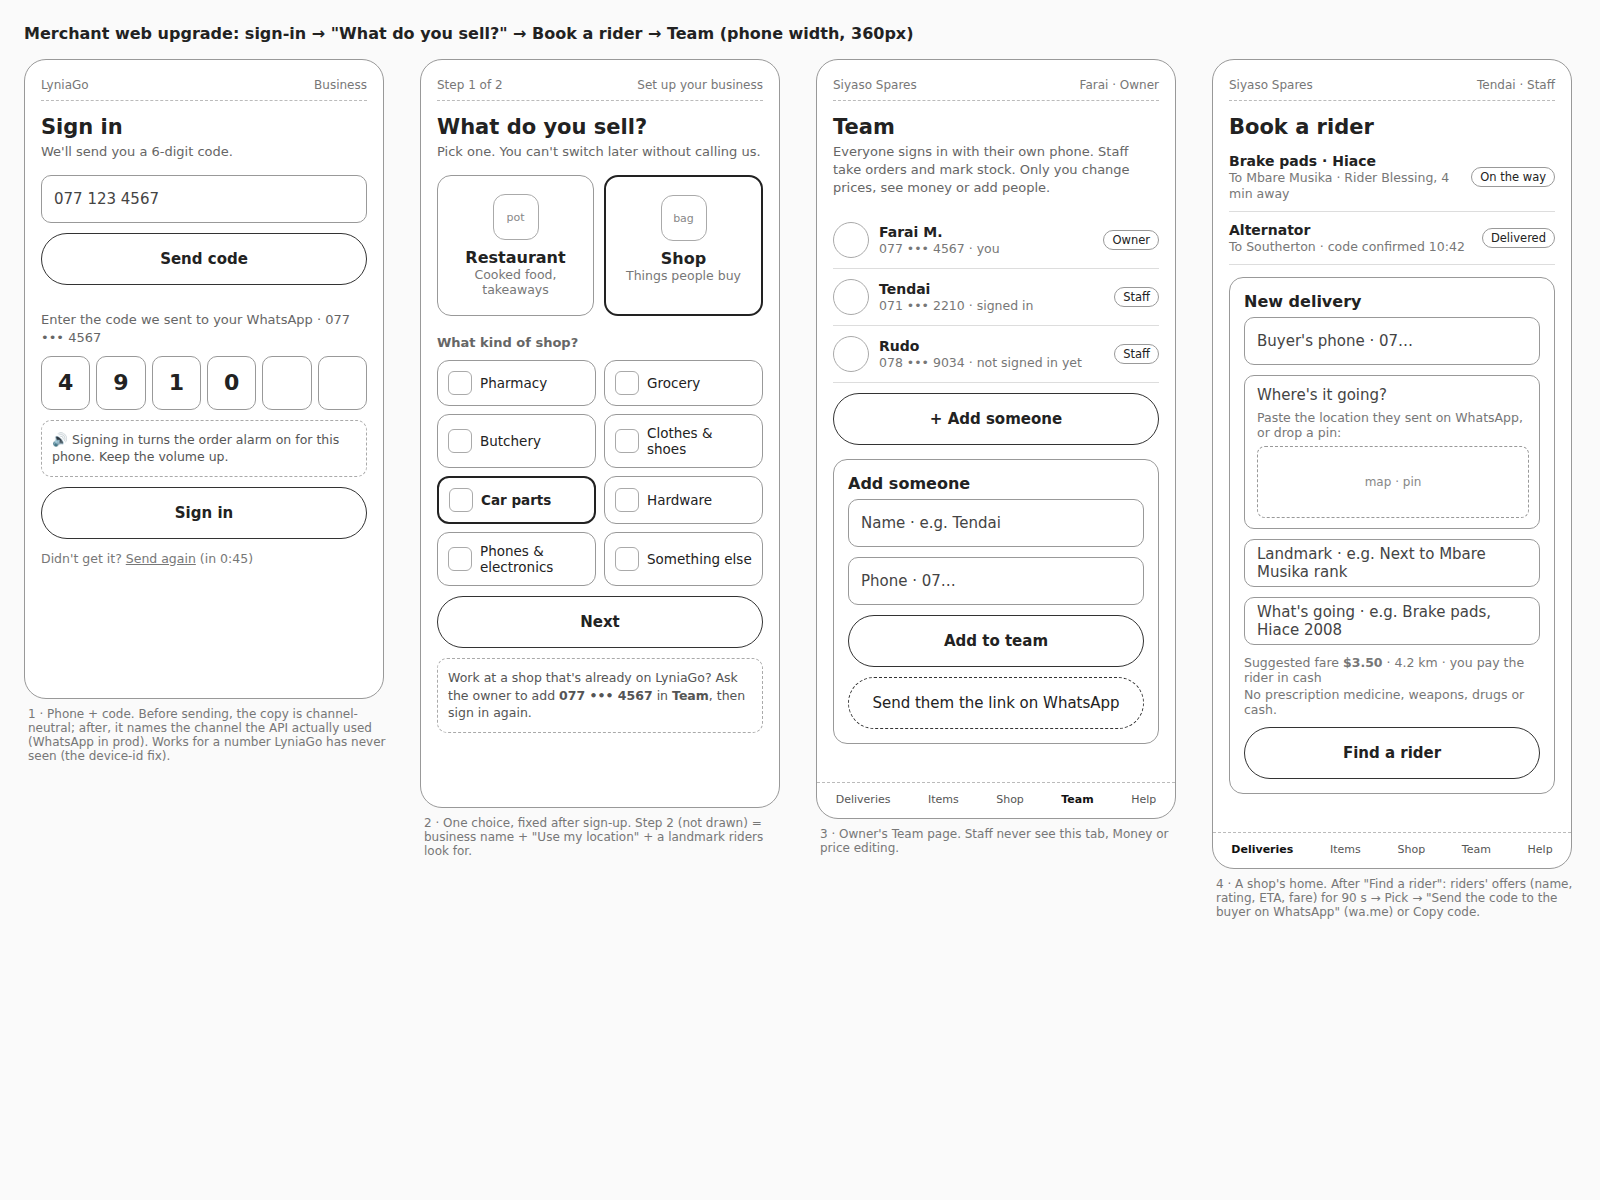
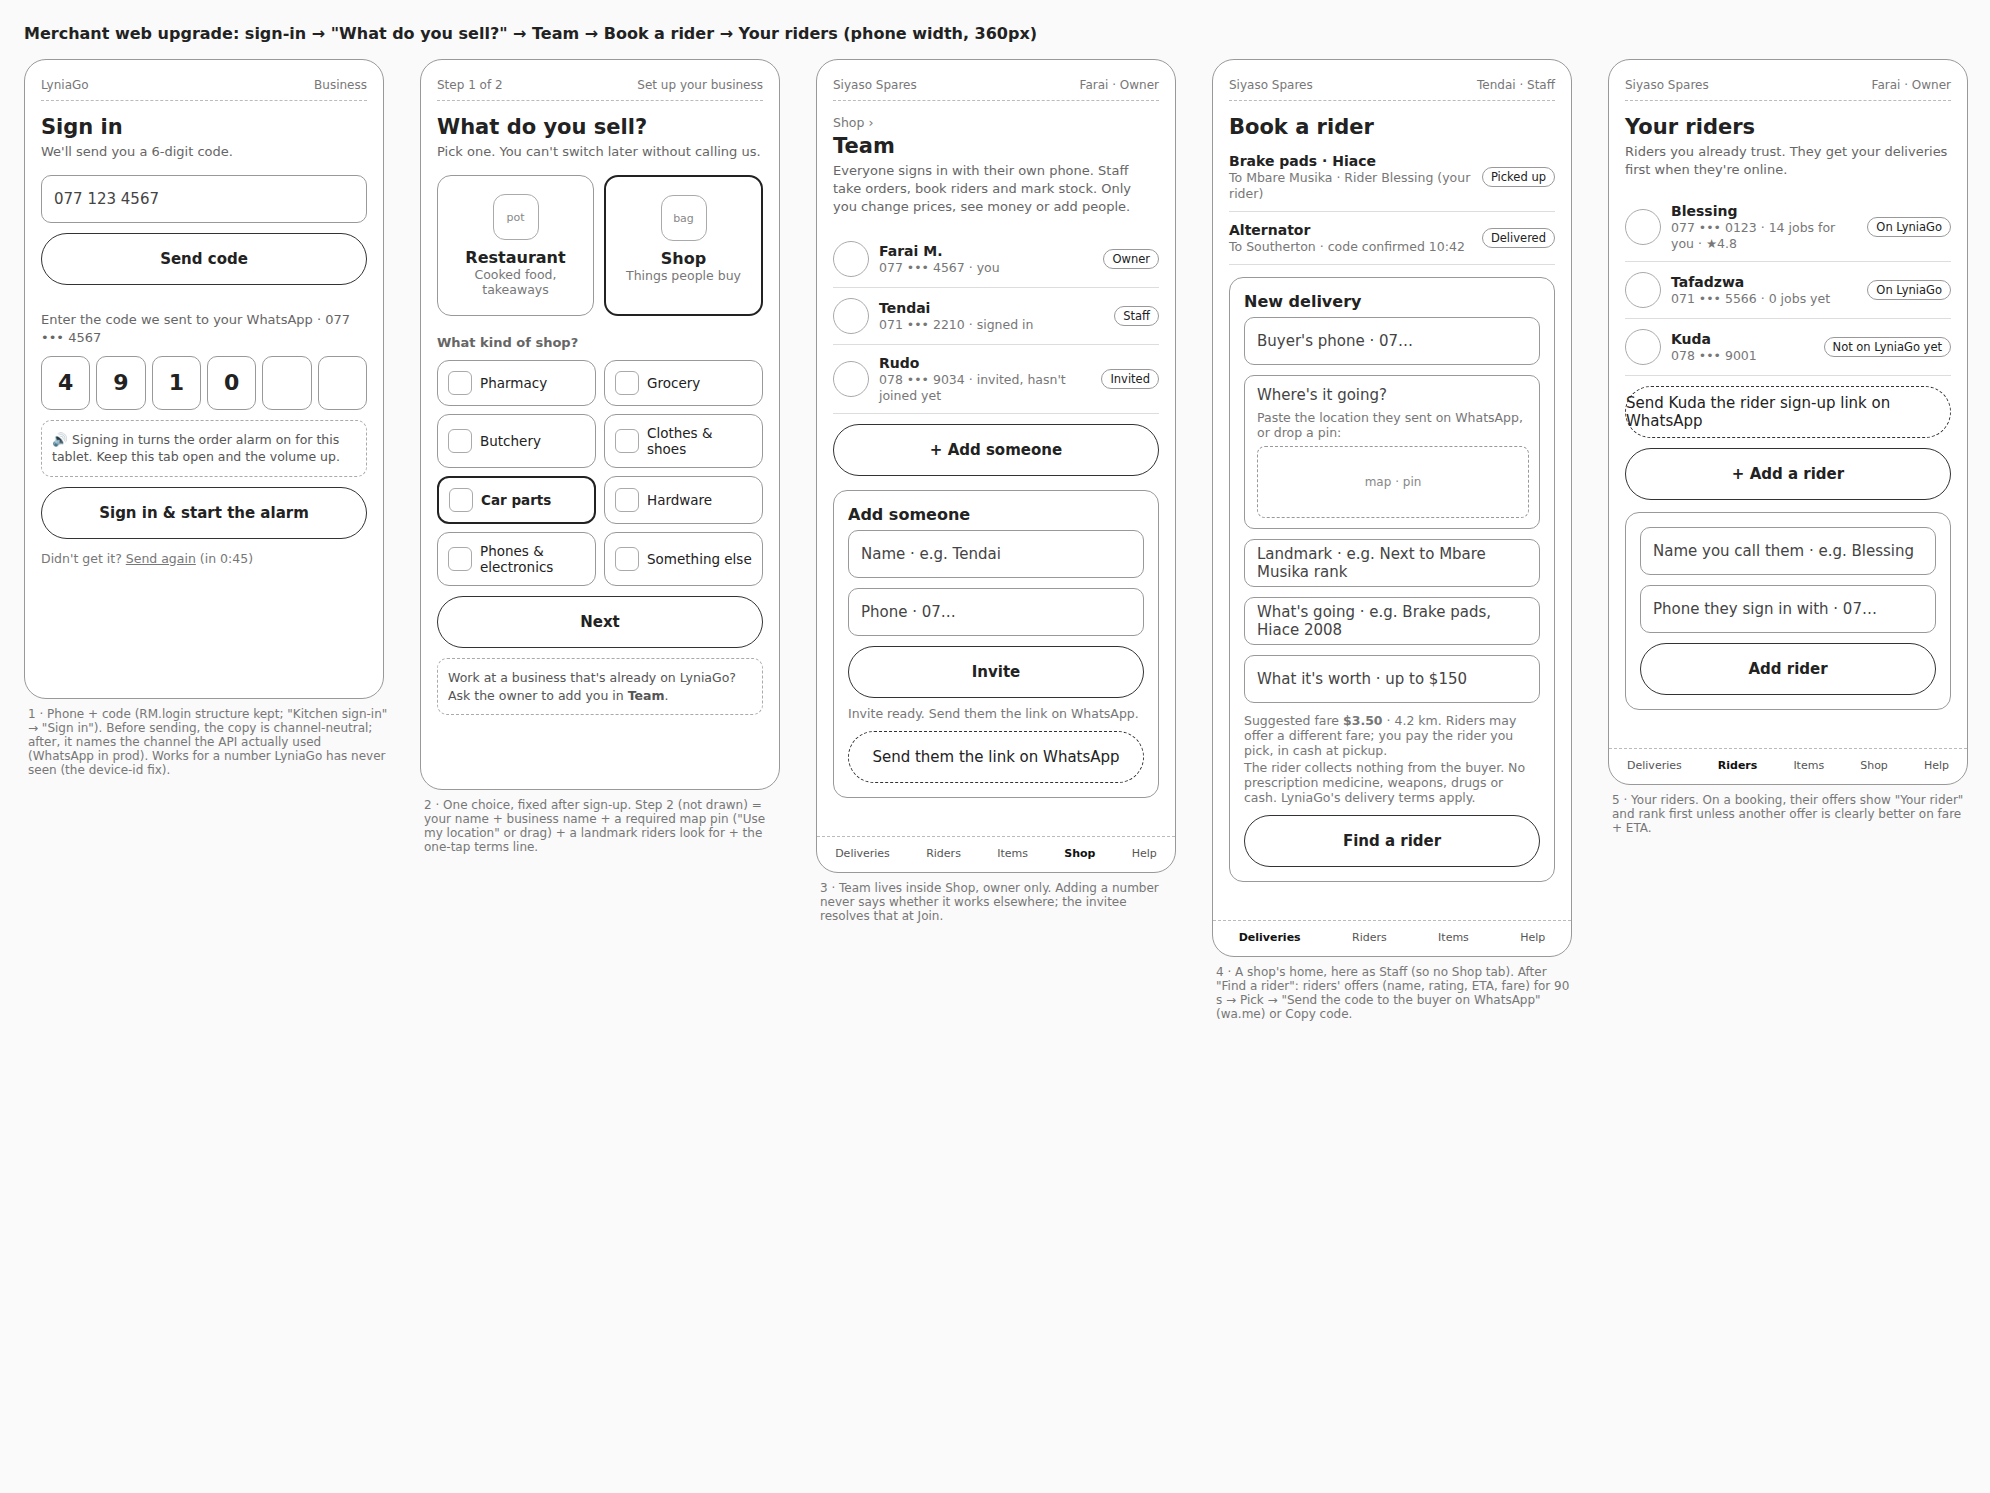
docs: merchant web 'Your riders' design, design approval + first CEO-review resolutions (#982)
Adds L3 "Your riders" (the owner's preferred-riders addition), marks the design doc approved, resolves the reviewer concerns that don't depend on Send internals, redraws the wireframe to match, and re-layers plan §5 to the design's five layers.

Claude-Session: https://claude.ai/code/session_0163HuRd6tsupB7Et2Dkb5fn

diff --git a/docs/designs/merchant-web-upgrade-wireframe.html b/docs/designs/merchant-web-upgrade-wireframe.html
@@ -43,7 +43,7 @@
 </style>
 </head>
 <body>
-<h1>Merchant web upgrade: sign-in → "What do you sell?" → Book a rider → Team (phone width, 360px)</h1>
+<h1>Merchant web upgrade: sign-in → "What do you sell?" → Team → Book a rider → Your riders (phone width, 360px)</h1>
 <div class="row">
 
   <!-- SCREEN 1: sign-in. One field. WhatsApp named up front, because that is where the code lands and
@@ -58,12 +58,12 @@
       <div style="height:26px"></div>
       <div class="sub" style="margin-bottom:8px">Enter the code we sent to your WhatsApp · 077 ••• 4567</div>
       <div class="boxes"><span>4</span><span>9</span><span>1</span><span>0</span><span></span><span></span></div>
-      <!-- Alarm unlock stays (D-05): the sign-in tap is the browser gesture that arms the order alarm. -->
-      <div class="note">🔊 Signing in turns the order alarm on for this phone. Keep the volume up.</div>
-      <div class="btn">Sign in</div>
+      <!-- Drawn in RM.login and kept: the sign-in tap arms the restaurant order alarm (harmless for shops). -->
+      <div class="note">🔊 Signing in turns the order alarm on for this tablet. Keep this tab open and the volume up.</div>
+      <div class="btn">Sign in &amp; start the alarm</div>
       <div class="muted" style="margin-top:12px">Didn't get it? <u>Send again</u> (in 0:45)</div>
     </div>
-    <div class="cap">1 · Phone + code. Before sending, the copy is channel-neutral; after, it names the channel the API actually used (WhatsApp in prod). Works for a number LyniaGo has never seen (the device-id fix).</div>
+    <div class="cap">1 · Phone + code (RM.login structure kept; "Kitchen sign-in" → "Sign in"). Before sending, the copy is channel-neutral; after, it names the channel the API actually used (WhatsApp in prod). Works for a number LyniaGo has never seen (the device-id fix).</div>
   </div>
 
   <!-- SCREEN 2: first sign-in for a number with no business. Picture cards first (Bolt/Chowdeck),
@@ -89,9 +89,9 @@
         <div class="chip"><span class="dot"></span>Something else</div>
       </div>
       <div class="btn">Next</div>
-      <div class="note">Work at a shop that's already on LyniaGo? Ask the owner to add <b>077 ••• 4567</b> in <b>Team</b>, then sign in again.</div>
+      <div class="note">Work at a business that's already on LyniaGo? Ask the owner to add you in <b>Team</b>.</div>
     </div>
-    <div class="cap">2 · One choice, fixed after sign-up. Step 2 (not drawn) = business name + "Use my location" + a landmark riders look for.</div>
+    <div class="cap">2 · One choice, fixed after sign-up. Step 2 (not drawn) = your name + business name + a required map pin ("Use my location" or drag) + a landmark riders look for + the one-tap terms line.</div>
   </div>
 
   <!-- SCREEN 3: Team, owner only. Add by phone, like adding someone to a WhatsApp group. Sharing the
@@ -99,22 +99,24 @@
   <div>
     <div class="phone">
       <div class="bar"><span>Siyaso Spares</span><span>Farai · Owner</span></div>
+      <div class="muted" style="margin-bottom:2px">Shop ›</div>
       <div class="title">Team</div>
-      <div class="sub">Everyone signs in with their own phone. Staff take orders and mark stock. Only you change prices, see money or add people.</div>
+      <div class="sub">Everyone signs in with their own phone. Staff take orders, book riders and mark stock. Only you change prices, see money or add people.</div>
       <div class="member"><span class="av"></span><span class="grow"><b>Farai M.</b><br><span class="muted">077 ••• 4567 · you</span></span><span class="tag">Owner</span></div>
       <div class="member"><span class="av"></span><span class="grow"><b>Tendai</b><br><span class="muted">071 ••• 2210 · signed in</span></span><span class="tag">Staff</span></div>
-      <div class="member"><span class="av"></span><span class="grow"><b>Rudo</b><br><span class="muted">078 ••• 9034 · not signed in yet</span></span><span class="tag">Staff</span></div>
+      <div class="member"><span class="av"></span><span class="grow"><b>Rudo</b><br><span class="muted">078 ••• 9034 · invited, hasn't joined yet</span></span><span class="tag">Invited</span></div>
       <div class="btn">+ Add someone</div>
       <div class="card" style="margin-top:14px">
         <div style="font-weight:600;margin-bottom:6px">Add someone</div>
         <div class="input">Name · e.g. Tendai</div>
         <div class="input">Phone · 07…</div>
-        <div class="btn">Add to team</div>
+        <div class="btn">Invite</div>
+        <div class="muted" style="margin:8px 0 4px">Invite ready. Send them the link on WhatsApp.</div>
         <div class="btn ghost">Send them the link on WhatsApp</div>
       </div>
-      <div class="nav"><span>Deliveries</span><span>Items</span><span>Shop</span><span><b>Team</b></span><span>Help</span></div>
+      <div class="nav"><span>Deliveries</span><span>Riders</span><span>Items</span><span><b>Shop</b></span><span>Help</span></div>
     </div>
-    <div class="cap">3 · Owner's Team page. Staff never see this tab, Money or price editing.</div>
+    <div class="cap">3 · Team lives inside Shop, owner only. Adding a number never says whether it works elsewhere; the invitee resolves that at Join.</div>
   </div>
 
   <!-- SCREEN 4: Book a rider = a shop's home. The Send rails (POST /orders → 90 s offer window → pick →
@@ -124,7 +126,7 @@
     <div class="phone">
       <div class="bar"><span>Siyaso Spares</span><span>Tendai · Staff</span></div>
       <div class="title">Book a rider</div>
-      <div class="member"><span class="grow"><b>Brake pads · Hiace</b><br><span class="muted">To Mbare Musika · Rider Blessing, 4 min away</span></span><span class="tag">On the way</span></div>
+      <div class="member"><span class="grow"><b>Brake pads · Hiace</b><br><span class="muted">To Mbare Musika · Rider Blessing (your rider)</span></span><span class="tag">Picked up</span></div>
       <div class="member"><span class="grow"><b>Alternator</b><br><span class="muted">To Southerton · code confirmed 10:42</span></span><span class="tag">Delivered</span></div>
       <div class="card" style="margin-top:12px">
         <div style="font-weight:600;margin-bottom:6px">New delivery</div>
@@ -136,13 +138,39 @@
         </div>
         <div class="input">Landmark · e.g. Next to Mbare Musika rank</div>
         <div class="input">What's going · e.g. Brake pads, Hiace 2008</div>
-        <div class="muted" style="margin:6px 0 2px">Suggested fare <b>$3.50</b> · 4.2 km · you pay the rider in cash</div>
-        <div class="muted">No prescription medicine, weapons, drugs or cash.</div>
+        <div class="input">What it's worth · up to $150</div>
+        <div class="muted" style="margin:6px 0 2px">Suggested fare <b>$3.50</b> · 4.2 km. Riders may offer a different fare; you pay the rider you pick, in cash at pickup.</div>
+        <div class="muted">The rider collects nothing from the buyer. No prescription medicine, weapons, drugs or cash. LyniaGo's delivery terms apply.</div>
         <div class="btn">Find a rider</div>
       </div>
-      <div class="nav"><span><b>Deliveries</b></span><span>Items</span><span>Shop</span><span>Team</span><span>Help</span></div>
+      <div class="nav"><span><b>Deliveries</b></span><span>Riders</span><span>Items</span><span>Help</span></div>
     </div>
-    <div class="cap">4 · A shop's home. After "Find a rider": riders' offers (name, rating, ETA, fare) for 90 s → Pick → "Send the code to the buyer on WhatsApp" (wa.me) or Copy code.</div>
+    <div class="cap">4 · A shop's home, here as Staff (so no Shop tab). After "Find a rider": riders' offers (name, rating, ETA, fare) for 90 s → Pick → "Send the code to the buyer on WhatsApp" (wa.me) or Copy code.</div>
+  </div>
+
+  <!-- SCREEN 5: Your riders (owner's addition at the design review). The business adds the bikers it
+       already trusts by the phone they sign in to LyniaGo with. The list shows the business's OWN label
+       and a coarse status only (no LyniaGo name/photo until they've done a job here), so it can't be used
+       to look people up. Preferred riders get this business's bookings first (up to 10 km) and a
+       "Your rider" tag on their offers; eligibility rules never bend. -->
+  <div>
+    <div class="phone">
+      <div class="bar"><span>Siyaso Spares</span><span>Farai · Owner</span></div>
+      <div class="title">Your riders</div>
+      <div class="sub">Riders you already trust. They get your deliveries first when they're online.</div>
+      <div class="member"><span class="av"></span><span class="grow"><b>Blessing</b><br><span class="muted">077 ••• 0123 · 14 jobs for you · ★4.8</span></span><span class="tag">On LyniaGo</span></div>
+      <div class="member"><span class="av"></span><span class="grow"><b>Tafadzwa</b><br><span class="muted">071 ••• 5566 · 0 jobs yet</span></span><span class="tag">On LyniaGo</span></div>
+      <div class="member"><span class="av"></span><span class="grow"><b>Kuda</b><br><span class="muted">078 ••• 9001</span></span><span class="tag">Not on LyniaGo yet</span></div>
+      <div class="btn ghost">Send Kuda the rider sign-up link on WhatsApp</div>
+      <div class="btn">+ Add a rider</div>
+      <div class="card" style="margin-top:12px">
+        <div class="input">Name you call them · e.g. Blessing</div>
+        <div class="input">Phone they sign in with · 07…</div>
+        <div class="btn">Add rider</div>
+      </div>
+      <div class="nav"><span>Deliveries</span><span><b>Riders</b></span><span>Items</span><span>Shop</span><span>Help</span></div>
+    </div>
+    <div class="cap">5 · Your riders. On a booking, their offers show "Your rider" and rank first unless another offer is clearly better on fare + ETA.</div>
   </div>
 
 </div>

diff --git a/docs/plans/2026-09-29-merchant-web-upgrade-plan.md b/docs/plans/2026-09-29-merchant-web-upgrade-plan.md
@@ -1,6 +1,11 @@
 # Merchant web upgrade: restaurants **and** shops, team logins, simpler UI
 
-**Status:** DRAFT for `/plan-ceo-review` (2026-09-29) · branch `claude/merchant-web-platform-upgrade-oylm53`
+**Status:** `/plan-ceo-review` in progress (2026-09-29) · branch `claude/merchant-web-platform-upgrade-oylm53`
+
+> **Mid-review note.** §5 is already revised to the approved design doc's five layers. §4 and §6–§9 still
+> describe the pre-review model (phone-keyed members that claim themselves at sign-in, bookings owned
+> by the person). Where they disagree, **§5 and `docs/designs/merchant-web-upgrade.md` win** until the
+> CEO review's next PR revises them.
 **Owner ask (verbatim, 2026-09-29):**
 
 > i want to upgrade the merchant web side. It needs to enable both restaurants snd shops though a user
@@ -221,40 +226,54 @@ parcel order owned by the person who booked it.
 
 ## 5. Scope and phasing
 
-**Phase 1 (approach B, "Everything, layered").** Each layer is usable without the next. All of it is
-behind the existing `RESTAURANTS_ENABLED` kill switch.
+**Phase 1 (approach B, "Everything, layered"), re-layered by the design doc and this CEO review.** The
+design doc `docs/designs/merchant-web-upgrade.md` is the product spec; this section is the build
+order. Each layer is its own PR with its own migration, and each is usable without the next. All of it
+sits behind the existing `RESTAURANTS_ENABLED` kill switch. *(Superseded order, for history: L1 front
+door → L2 team → L3 Book a rider → L4 words. The office-hours design moved Book a rider ahead of Team
+because it is what the pilot's week 1 measures.)*
 
-*L1 — Front door*
+*L1 — Front door* (migration `0053`)
 - `x-device-id` goes on the CORS allow-list, and the merchant web sends a stable per-browser device id
   on verify. The sign-in copy names WhatsApp, driven by `deliveryChannel`.
-- Migration `0053`:
-  - `merchants.business_type` (NOT NULL DEFAULT `restaurant`, metadata-only on PG16);
-  - `merchants.shop_kind` (nullable);
-  - `merchant_members` (new table plus an owner backfill).
-- `become` takes `{ name, businessType, shopKind?, location }`, creates the owner row, and **flips no
-  role**.
-- Sign-up flow in the web: What do you sell? → kind → name + location → `/setup`.
-- **Admin go-live switch:** `PATCH /admin/merchants/:id/pilot`, audit-logged, plus a console button.
-  The admin list shows the business type.
+- Migration `0053`: `merchants.business_type` (NOT NULL DEFAULT `restaurant`), `merchants.shop_kind`
+  (nullable), and `merchant_members` with an owner backfill.
+- `MerchantAccessService` + a DB-backed `MerchantGuard` + `@OwnerOnly()`. The lookup util, the kitchen
+  socket and `become` read membership. `owner_profile_id` stays as a fallback during rollout.
+- `become` takes `{ ownerName, name, businessType, shopKind?, location, termsAccepted }`, creates the
+  merchant and its owner row in one transaction, and **flips no role**.
+- Sign-up in the web: What do you sell? → kind → your name + business name + map pin + landmark +
+  terms → a type-aware `/setup`.
+- **Admin go-live:** `PATCH /admin/merchants/:id/pilot` (audit-logged; refuses shops), an "Awaiting
+  go-live" list of restaurants, a "Shops (signed up)" filter, and the console button.
 - Customer restaurant reads and `placeOrder` are scoped to `businessType = restaurant`.
+- Runbook `docs/runbooks/MERCHANT-GO-LIVE.md` (the ops checks before switching a restaurant on).
 
-*L2 — Team*
-- `MerchantAccessService`, a DB-backed `MerchantGuard` and `@OwnerOnly()`. The lookup util, the
-  tracking socket and `become` move to membership.
-- Team API: `GET/POST /merchant/team` and `DELETE /merchant/team/:id`. Owner-only, at most 15 people,
-  throttled, one business per phone.
-- Team page (add by phone, remove, share the sign-in link on WhatsApp) and role-aware nav.
+*L2 — Book a rider + the shop shell* (migration `0054`)
+- `orders.booked_by_merchant_id` (nullable FK) and a business-level booking hold on `merchants`.
+- Merchant-scoped booking endpoints over the Send services: quote, create, list, detail, pick an
+  offer, cancel, try again. The re-broadcast clone keeps the business tag. The customer app neither
+  lists nor acts on business bookings.
+- The Deliveries page (a shop's home; a restaurant opens it from a "Book a rider" button and a bookings
+  strip on Orders), the booking form with a Leaflet + OSM pin map, the live 90-second pick screen, and
+  "Send the code to the buyer on WhatsApp".
+- The shop shell: shop nav (Deliveries · Items · Shop · Help), `vocabulary(businessType)` on the screens
+  a shop uses, and Help → WhatsApp support.
 
-*L3 — Book a rider* (D9)
-- A booking screen on the existing parcel API (`POST /orders`, offers, select), with drop-off from a
-  WhatsApp location link.
-- The delivery code is shared to the buyer on WhatsApp.
-- A Today list of bookings.
+*L3 — Your riders* (migration `0055`)
+- `merchant_preferred_riders`, owner-managed Riders page (a shop nav item; inside Shop for restaurants).
+- Preferred reach and the "Your rider" tag on Book a rider offers, a `rankOffers` preferred bonus, and
+  preferred-first restaurant auto-dispatch with the 2 km cold-food guardrail.
 
-*L4 — Shop words + kit fixes*
-- A `vocabulary(businessType)` module, with starter categories per shop kind.
-- OOS durations `today | hour | indefinite` and the three-option sheet.
-- The top bar shows the shop's name. **Help** in the nav opens WhatsApp support.
+*L4 — Team* (migration `0056`)
+- `merchant_invites`, the Team page inside Shop (invite, remove, share the link on WhatsApp), Join / Not
+  me with name confirm and terms, Leave this business, "Switch person", role-aware navs.
+- `POST /admin/merchants/:id/owner` (audit-logged owner transfer for support).
+
+*L5 — Finishing the drawn restaurant screens*
+- The three-option out-of-stock sheet (`today | hour | indefinite`), the top bar with the business's
+  name and who is signed in, Help as the sixth restaurant nav item, and the remaining vocabulary on
+  shared screens.
 
 **Phase 2: next.**
 - Pause 30 min / Close for today (server `pausedUntil`, the customer list, `placeOrder`, a mobile OTA).
